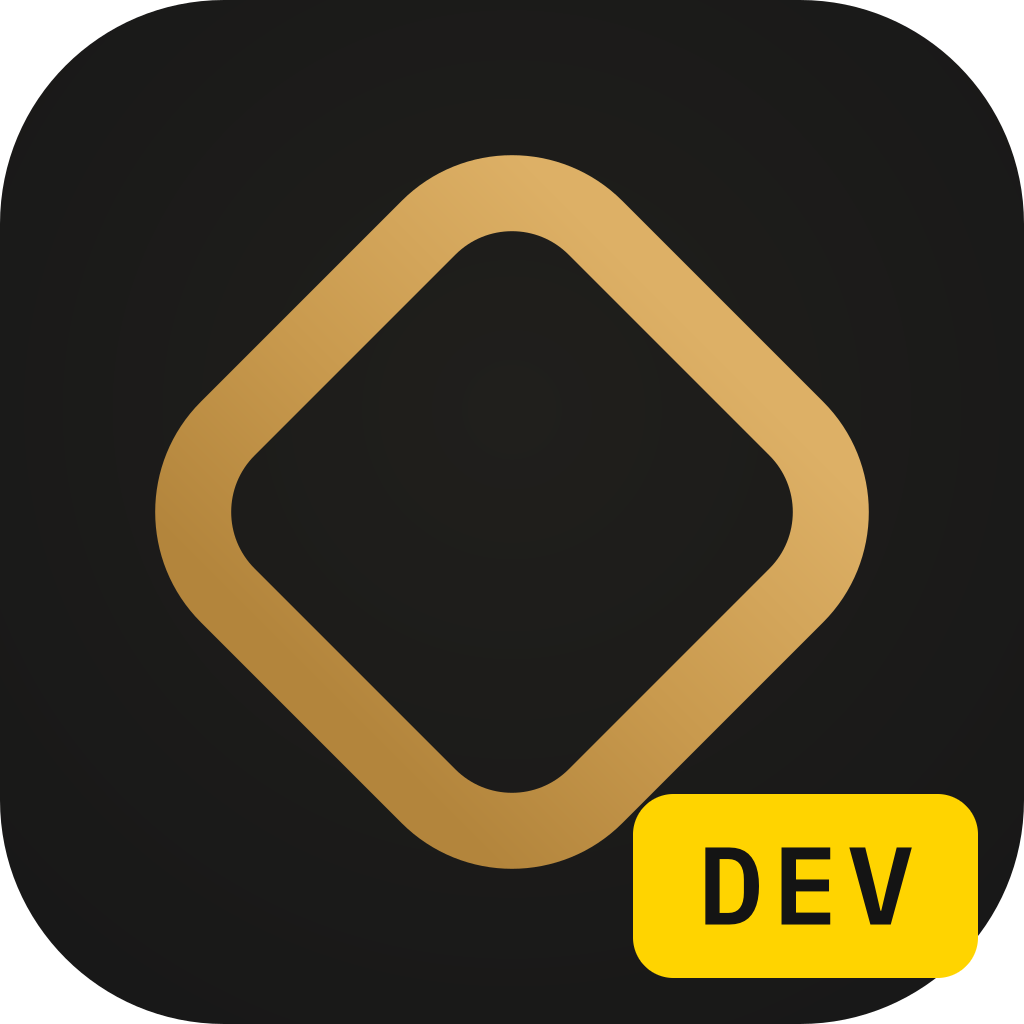
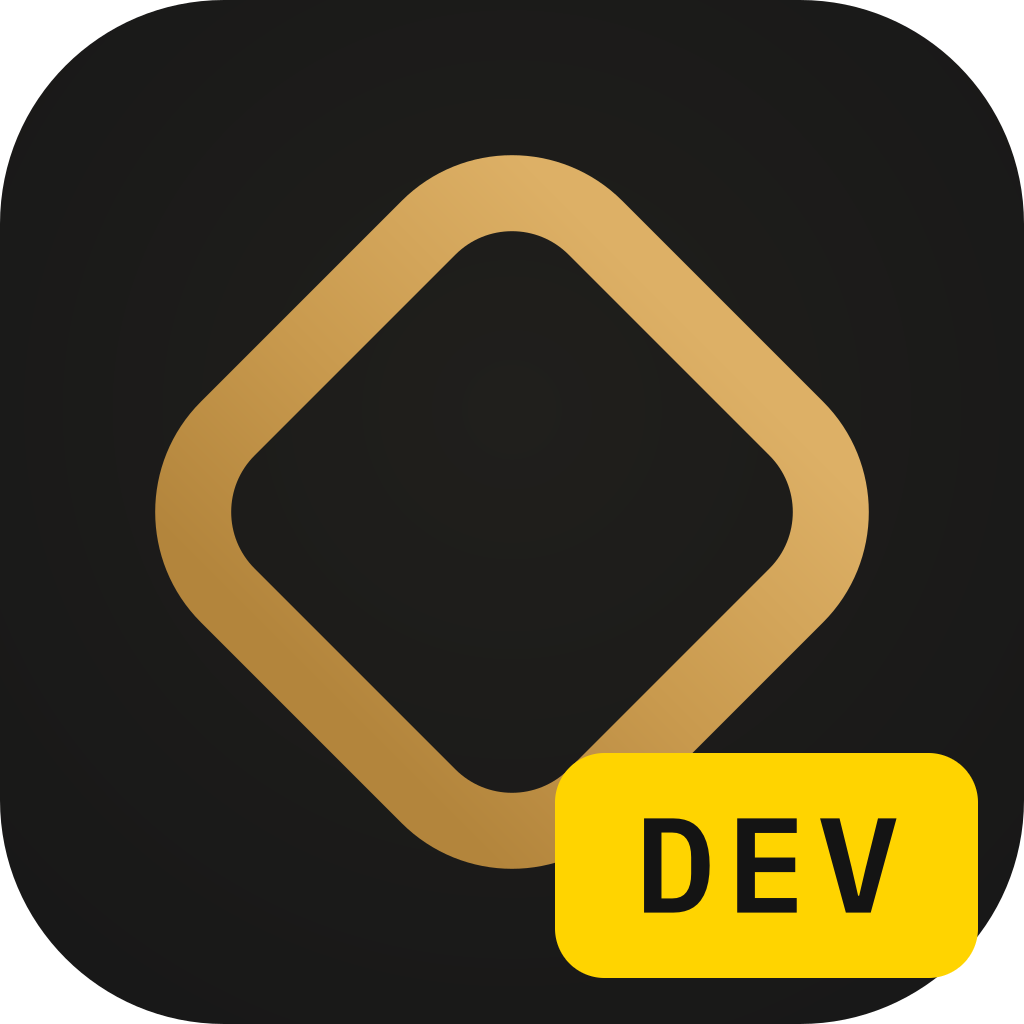
fix: dev-badge legibility — design overlay on the preview tile, launcher-scale baked proportions (PCAD-8)
The preview tile now shows the regular mark plus the design's CSS DEV chip
(sized against the tile, always legible) instead of the baked file's speck.
The baked badge itself is resized against the image's LONGEST dimension —
which is what sets display scale when a launcher object-fits the PNG into
its tile — clamped to fit the short side; regenerated all -dev.png files.

Changed region(s): [[0.5312, 0.7188, 0.9688, 0.9688]]

diff --git a/internal/api/web/index.html b/internal/api/web/index.html
@@ -113,8 +113,10 @@
   .dev-swatch { background:#1a1d20; border:1px solid #3d3a21; }
   .dev-swatch .tile-wrap { position:relative; width:64px; height:64px; }
   .dev-swatch .tile { position:absolute; inset:0; background:linear-gradient(150deg,#30353a,#1d2124); border:1px solid #3a4045; }
-  .dev-swatch .tile img { width:56px; height:56px; }
   .dev-swatch .label { color:#c9b53f; }
+  .dev-chip { position:absolute; right:-5px; bottom:-5px; padding:2px 5px 3px; border-radius:5px;
+              background:#ffd400; border:2px solid #1a1d20; font-family:'IBM Plex Mono', monospace;
+              font-size:8.5px; font-weight:600; letter-spacing:0.08em; color:#141414; line-height:1; }
   .nolabel-swatch { background:#1a1d20; border:1px dashed #33383d; }
   .nolabel-swatch .tile { border-radius:13px; background:#26292c; }
   .nolabel-swatch .tile-initials { font-size:18px; color:#6c7278; }
@@ -295,7 +297,6 @@
     var meta = STATUS[svc.status];
     var light = fileByName(svc, '-mark-light.png');
     var dark = fileByName(svc, '-mark-dark.png');
-    var devDark = fileByName(svc, '-mark-dark-dev.png');
     var hasLight = light && light.state === 'in_repo';
     var hasDark = dark && dark.state === 'in_repo';
     var canonical = state.data.canonical_base + svc.slug + '/' + svc.slug + '-mark-light.png';
@@ -372,9 +373,14 @@
             '<div class="label">on dark</div>' +
           '</div>' +
           '<div class="swatch dev-swatch">' +
-            '<div class="tile-wrap"><div class="tile">' +
-              tileInner(devDark && devDark.state === 'in_repo' ? devDark.mirror_url : '', devDark && devDark.state === 'in_repo', svc.name) +
-            '</div></div>' +
+            // The regular mark plus the CSS chip, per the design — the chip is
+            // sized against the tile so it reads at any mark aspect. The baked
+            // -dev.png is what dev launchers actually consume; this tile shows
+            // what its corner badge MEANS, not the file itself (PCAD-8).
+            '<div class="tile-wrap">' +
+              '<div class="tile">' + tileInner(hasDark ? dark.mirror_url : '', hasDark, svc.name) + '</div>' +
+              '<div class="dev-chip">DEV</div>' +
+            '</div>' +
             '<div class="label">dev build</div>' +
           '</div>' +
           '<div class="swatch nolabel-swatch">' +

diff --git a/internal/gen/badge.go b/internal/gen/badge.go
@@ -36,15 +36,23 @@ func Badge(src image.Image) *image.RGBA {
 	out := image.NewRGBA(image.Rect(0, 0, w, h))
 	draw.Draw(out, out.Bounds(), src, b.Min, draw.Src)
 
-	m := w
-	if h < m {
-		m = h
+	// Proportioned for the actual consumer: a launcher object-fits the whole
+	// image into a ~48px tile, so display scale is set by the LONGEST
+	// dimension — size against it, clamped so a wide wordmark's badge still
+	// fits its short side (PCAD-8; sizing against min-dim made argosy's badge
+	// ~3px tall at launcher scale).
+	minDim, maxDim := w, h
+	if h < w {
+		minDim, maxDim = h, w
 	}
-	badgeH := int(math.Round(0.18 * float64(m)))
+	badgeH := int(math.Round(0.22 * float64(maxDim)))
+	if limit := int(math.Round(0.45 * float64(minDim))); badgeH > limit {
+		badgeH = limit
+	}
 	if badgeH < 14 {
 		badgeH = 14
 	}
-	margin := int(math.Round(0.045 * float64(m)))
+	margin := int(math.Round(0.045 * float64(minDim)))
 	if margin < 3 {
 		margin = 3
 	}
